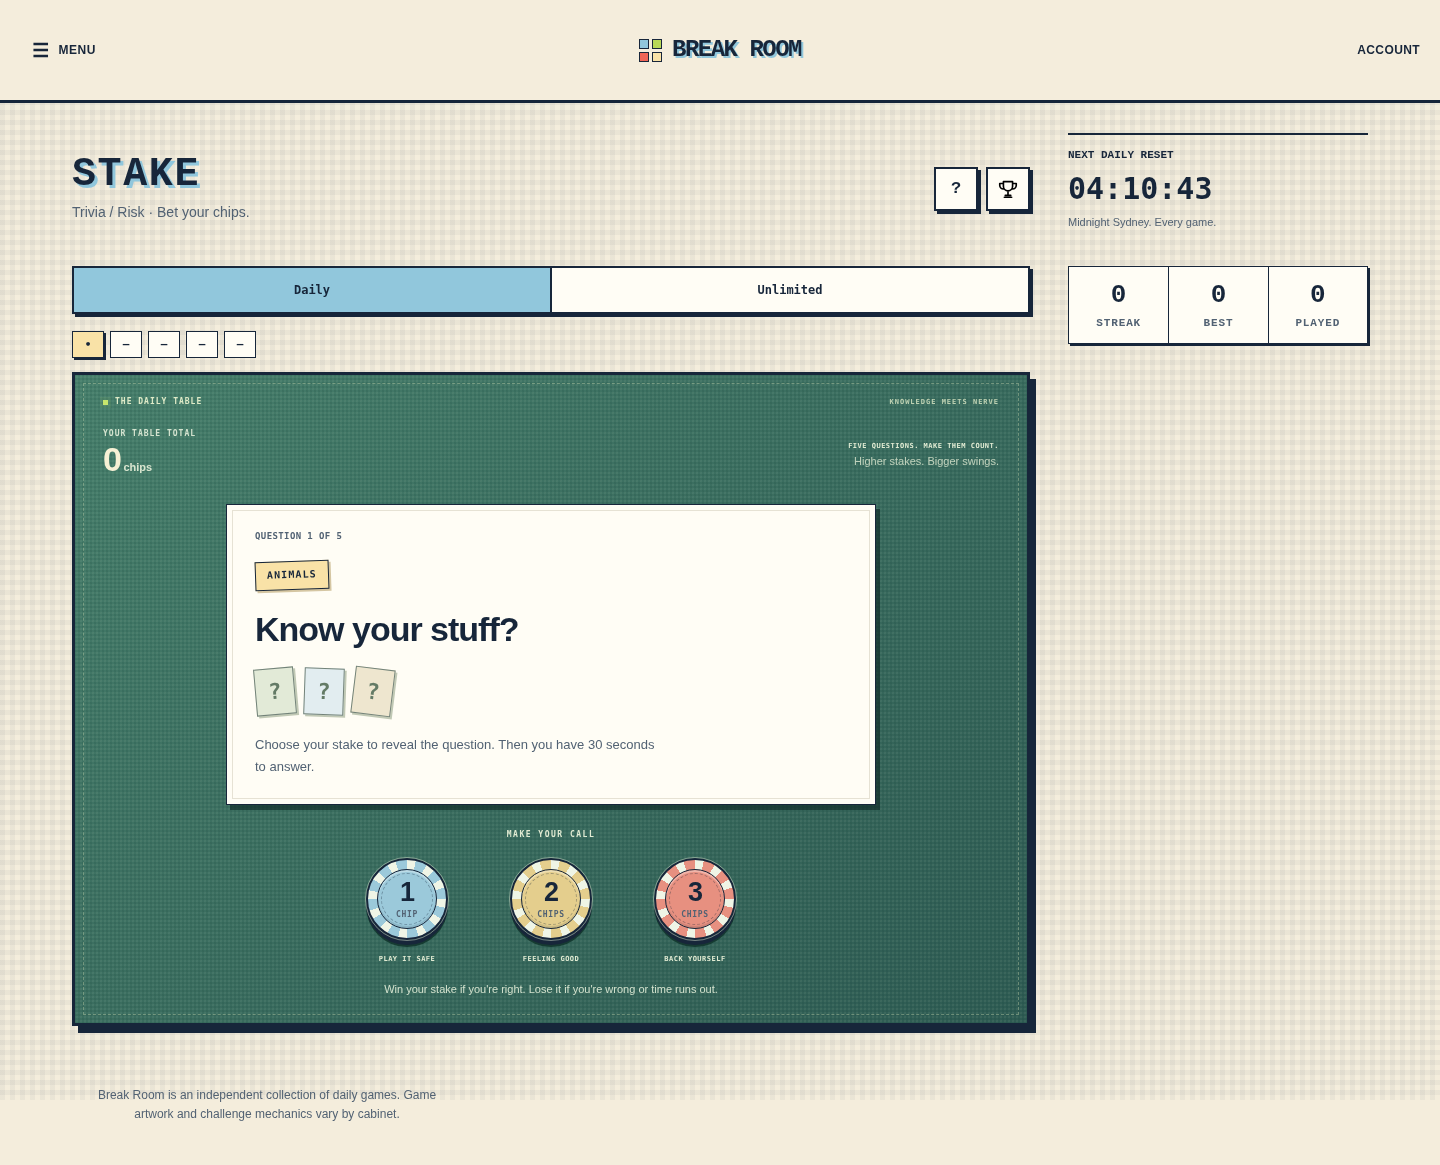
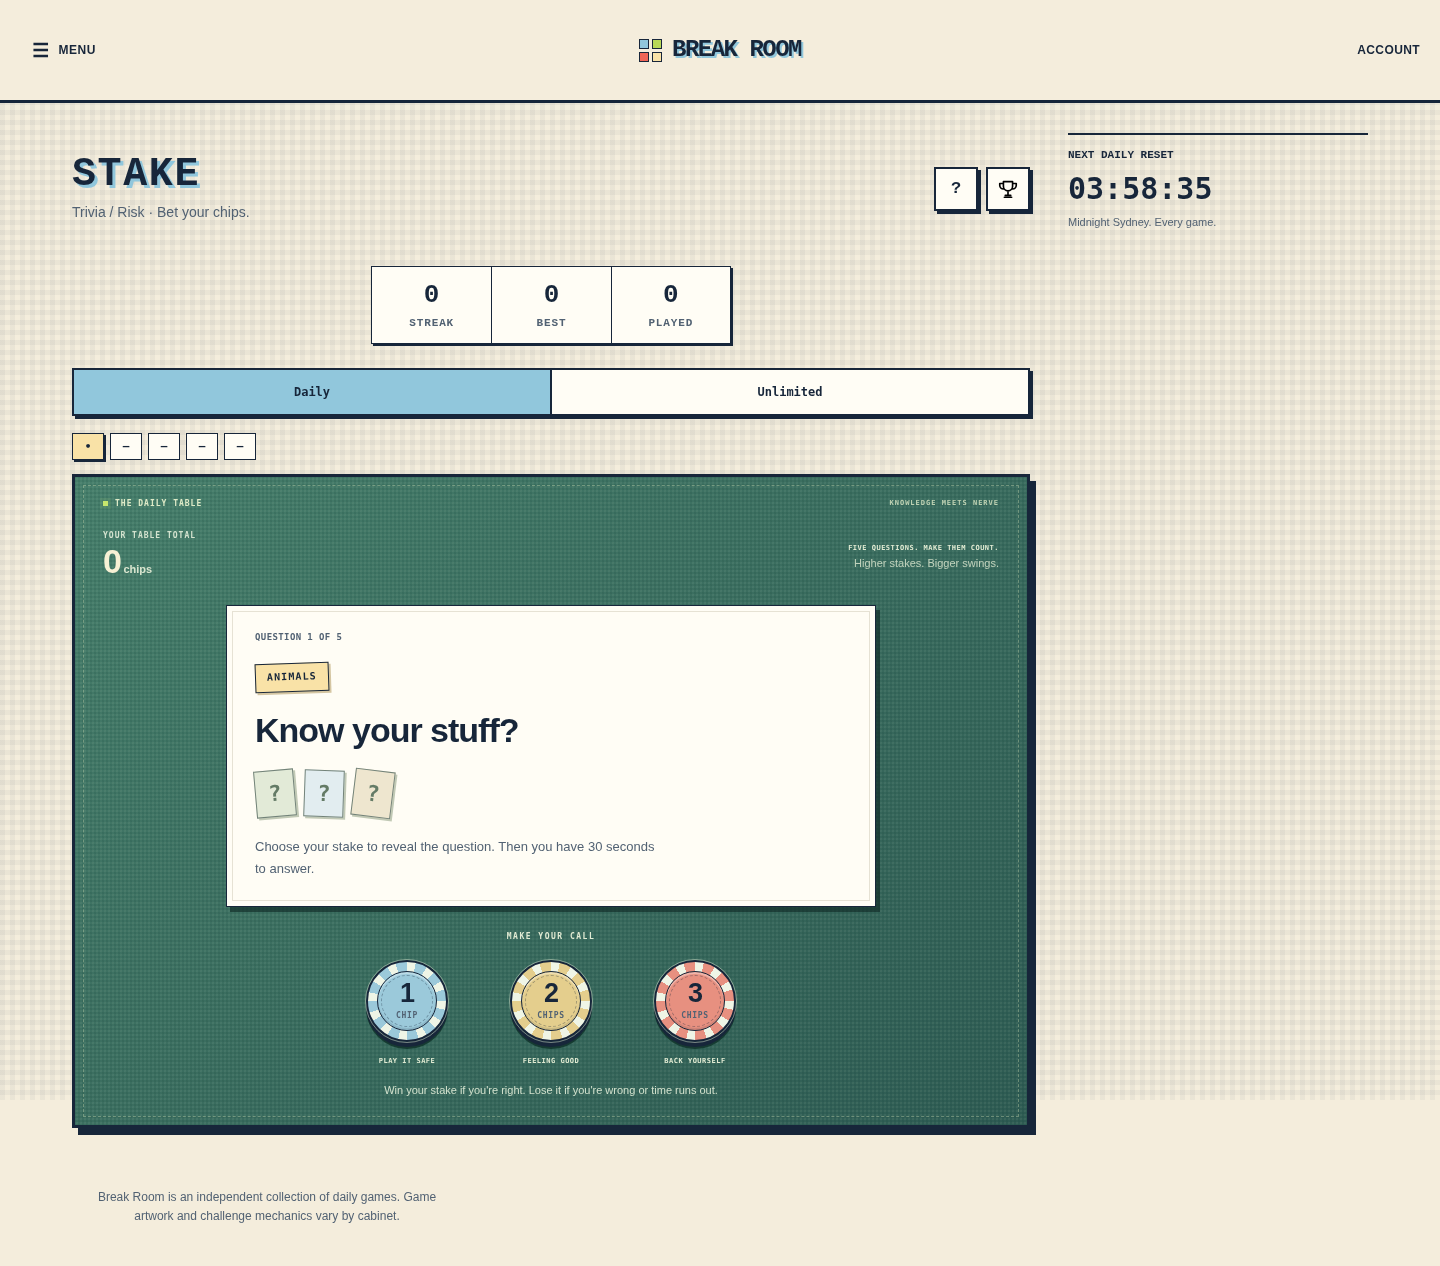
Centre Stake stats above the Daily and Unlimited buttons

diff --git a/games/stake/table.css b/games/stake/table.css
@@ -23,3 +23,7 @@ body:has(#app) .standalone-page{max-width:1360px;padding-top:30px}.standalone-wr
 .concealed-question i:nth-child(2){background:#e2edf0;transform:rotate(2deg)}.concealed-question i:nth-child(3){background:#eee6cf;transform:rotate(7deg)}
 .has-loss .stake-results .big{color:#a24437!important}.has-loss .table-result-stamp{color:#a24437;border-color:#a24437}
 #app .question-card:focus,#app .stake-results:focus{outline:none}
+/* Centre the personal stats above the Daily / Unlimited switch. */
+.standalone-wrap:has(#app)>.quick-stats{grid-column:1;grid-row:2;justify-self:center;align-self:center;width:min(100%,360px);margin:0}
+#app{grid-row:3/6}
+@media(max-width:650px){.standalone-wrap:has(#app)>.quick-stats{order:1}#app{order:2}}
